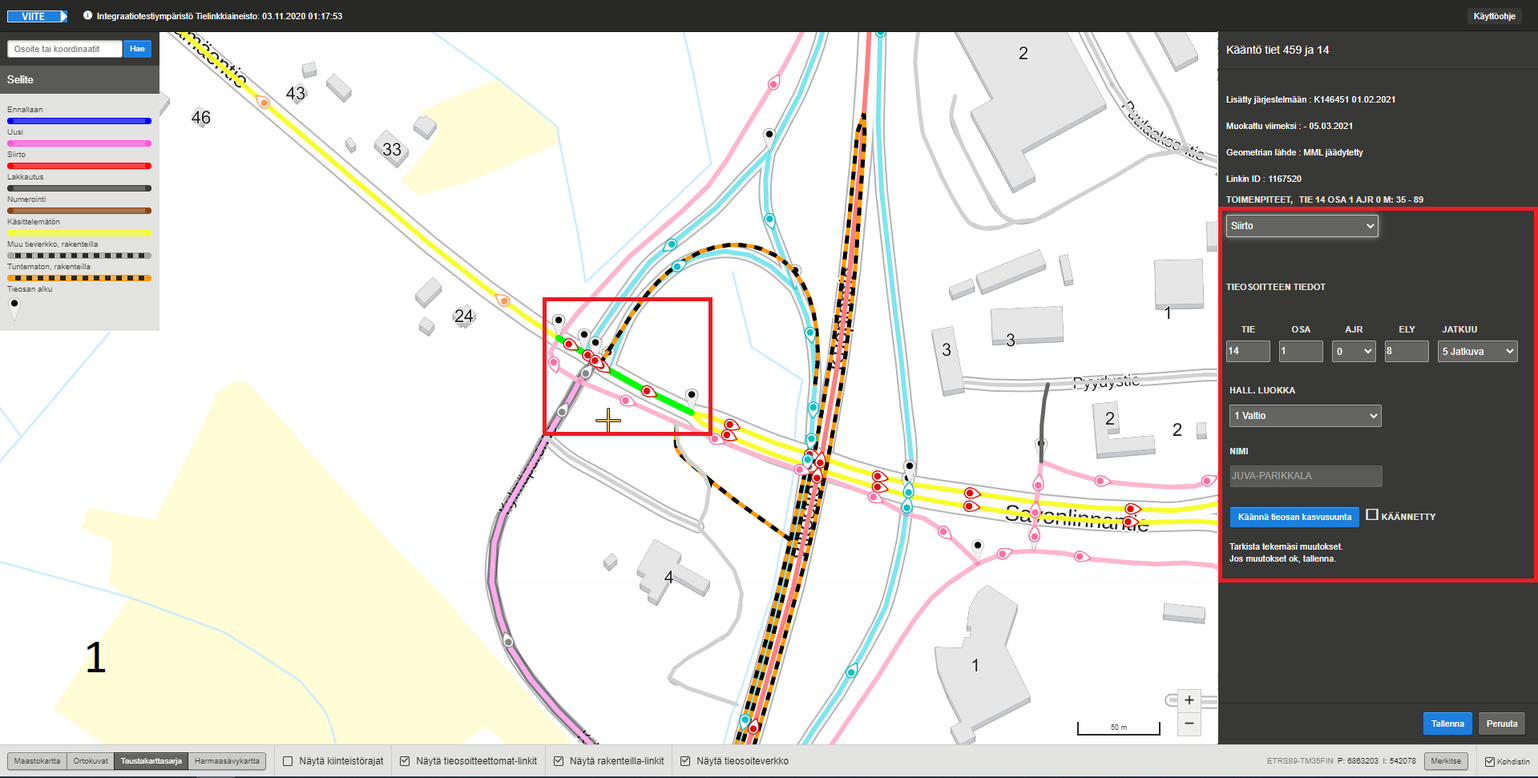
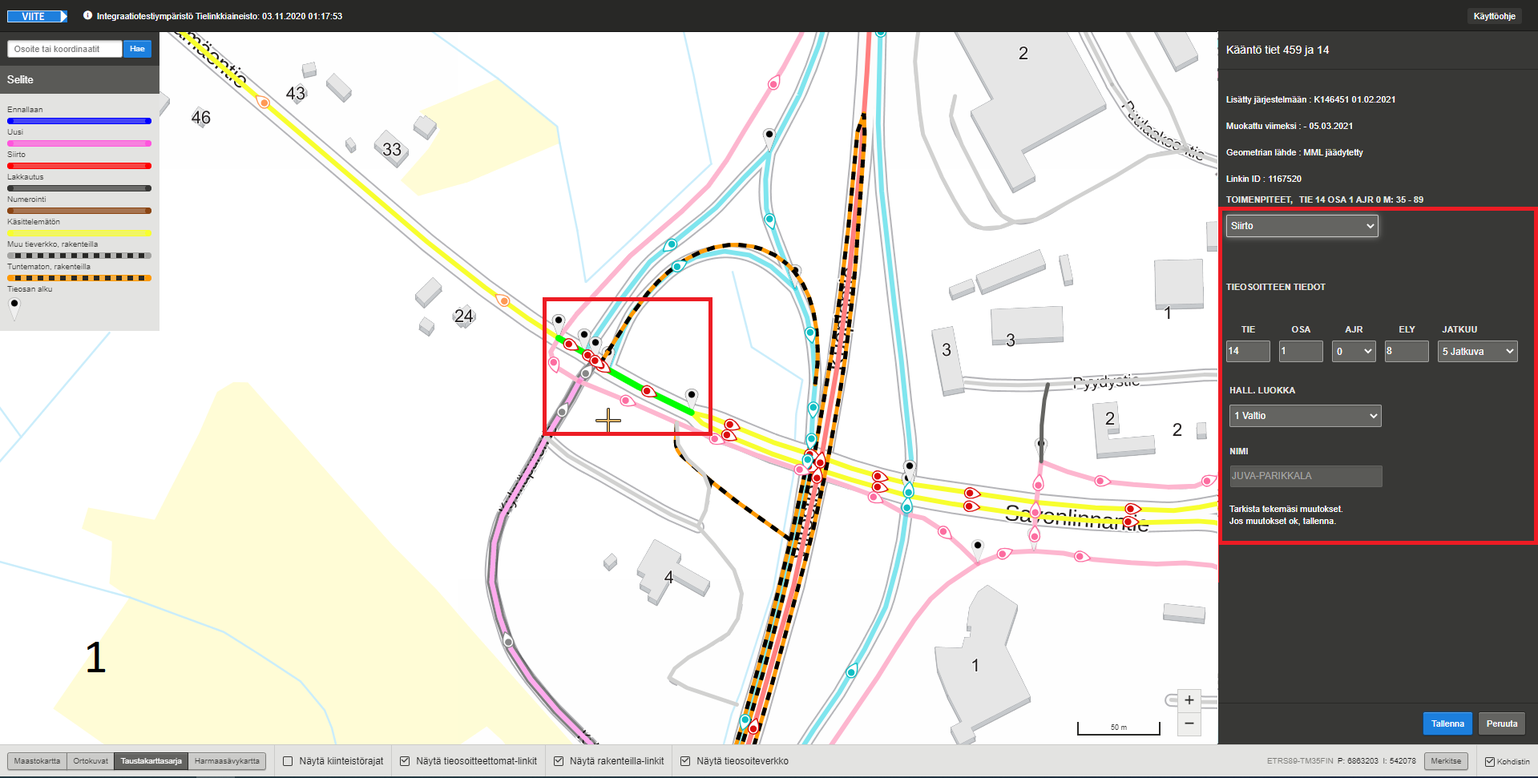
User manual update, chapter 7

Changed region(s): [[0.7994, 0.6488, 1.0, 0.7724]]

diff --git a/viite-UI/manual/index.md b/viite-UI/manual/index.md
@@ -386,65 +386,71 @@ Projektitilan selite kuvaa linkkiverkkoon tehdyt toimenpiteet, kun taas katselut
 
 7.1 Toimenpiteiden kuvaukset
 --------------------------
-#### Yleistä toimenpiteistä
-Uusi-toimenpidettä lukuunottamatta kaikkia muita toimenpiteitä varten käsiteltävä tieosa tai käsiteltävät tieosat täytyy ensin varata tieosoiteprojektiin (Ks. 6.1, kohta _Tieosien varaaminen projektiin_).
+### Yleistä toimenpiteiden tekoprosessista
+#### Toimenpiteiden tekemisen esiehdot
+Uusi-toimenpidettä lukuunottamatta käsiteltävä tieosa tai käsiteltävät tieosat täytyy ensin varata tieosoiteprojektiin (Ks. 6.1, kohta _Tieosien varaaminen projektiin_).
 Kaikki toimenpiteet tehdään toimenpidenäkymässä, jonne päästään _Jatka toimenpiteisiin_ -painikkeesta projektin luonti- tai muokkausnäkymästä käsin.   
 Muut toimenpiteet kuin Uusi: Projektiin varatut mutta vielä käsittelemättömät tieosat näkyvät kartalla keltaisina aihioina. Valitse kartalta aihio tai aihiot, joille haluat tehdä toimenpiteen.   
 Uusi-toimenpide: valitse kartalta tieosoitteistamaton tai rakenteilla oleva tieosuus, jonka haluat osoitteistaa.   
-Valittuina tielinkit muuttuvat vihreiksi. Shift+kaksoisklikkaus-painalluksella voi lisätä yksittäisiä linkkejä valintaan tai poistaa yksittäisiä linkkejä valinnasta.   
+Valittuina tielinkit muuttuvat vihreiksi. Shift+klikkauksella voi lisätä yksittäisiä linkkejä valintaan Ctrl+klikkauksella lisätä tai poistaa yksittäisiä linkkejä valinnasta.   
 Oikeaan reunaan, toimenpidelomakkeelle, tulevat tiedot valituista linkeistä, sekä pudotusvalikko, josta kulloinkin tehtävissä olevat toimenpiteet voi valita.
+
+#### Toimenpiteiden teon jälkeen
+Varsinaisen toimenpiteen teon jälkeen osoitteiston m-arvot, sekä uusi- ja kääntötoimenpiteiden tapauksessa myöskään tielinkkien suunnat, eivät ole vielä välttämättä laskettu oikein.
+Kaikkien projektin toimenpiteiden teon jälkeen täytyy projektin muokkaaman tieosoiteverkon tiedot laskea _Päivitä etäisyyslukemat_-nappia klikkaamalla. 
+Tällöin Viite laskee linkeille suunnat, ja päivittää etäisyyslukemat vastaamaan uutta tilannetta toimenpiteiden jälkeen. 
+Etäisyyslukemien laskenta voi tässä yhteydessä löytää toimenpiteistä korjattavaa, jolloin käyttäjälle näytetään lista validointivirheistä, eikä projektin teossa pääse eteenpäin, ennen kuin toimenpiteet on korjattu virheettömiksi.
+Kun etäisyyslukemien päivityksen yhteydessä ei havaita enää enempää ongelmia, käyttäjä päästetään tarkastelemaan projektin yhteenvetotaulukoa (ks. luku 7.3), ja sen jälkeen hyväksymään projektin toimenpiteitä tieosoiteverkolle (luku 7.4).
 
 7.1.1 Lakkautus
 --------------------------
 
 Lakkautus-toimenpiteellä lopetetaan tielinkkien tieosoitteistuksen voimassaolo.   
-(Yleiset ohjeet; kuinka saada toimenpidevalikko näkyviin: ks. edeltä luku 7.1.) Toimenpidelomakkeen pudotusvalikosta valitaan Lakkautus. Tämän jälkeen muutos tallennetaan projektiin. 
-Lakkautetut linkit näkyvät tämän jälkeen kartalla mustina.
+
+Toimenpidelomakkeen pudotusvalikosta valitaan Lakkautus (1). Tämän jälkeen muutos tallennetaan projektiin (_Tallenna-_). Lakkautetut linkit näkyvät tämän jälkeen kartalla mustina (2).
 Mikäli on lakkautettu vain osa tieosan linkeistä, tulee tieosan muut kuin lakkautetut linkit käsitellä joko Ennallaan- tai Siirto-toimenpiteillä tilanteesta riippuen. 
 
-ja niiden tiedot päivittyvät yhteenvetotaulukkoon, jonka voi avata sinisestä _Avaa projektin yhteenvetotaulukko_ -painikkeesta. 
-Yhteenvetotaulukon toiminta on kuvattu luvussa 7.2. 
-Kun tarvittavat muutokset projektissa on tehty, muutostiedot voi hyväksyä tieverkolle painamalla _Hyväksy tieosoitemuutokset_ -painiketta. (Yhteenvetotaulukon tulee olla tällöin avattuna.)
+![Tieosoitteen lakkautus](k_toimenpide_lakkautus.jpg)
+
 
 7.1.2 Uusi
 --------------------------
-Uusi-toimenpiteellä määritetään uusi tieosoitteisto tieosoitteettomille tielinkeille.   
-Tieosoitteettomia muun tieverkon linkkejä (piirtyvät kartalle harmaina) tai rakenteilla olevia linkkejä (näkyvät katkoviivoina) voi toimenpidenäkymässä valita kerta- kaksois- tai ctrl+klik-klikkauksilla, kuten muitakin tielinkkejä. Kaksoisklikkaus valitsee yhden tielinkin ja Ctrl+klikkauksella voi lisätä tai poistaa valintaan linkkejä yksi kerrallaan. Kertaklikkaus valitsee homogeenisen jakson, jossa käytetään VVH:n tielinkin tienumeroa ja tieosanumeroa. Tienumeron tai tieosanumeron puuttuessa valinnassa käytetään tienimeä.
+Uusi-toimenpiteellä määritetään tieosoitteisto tieosoitteettomille tielinkeille.   
 
-(Yleiset ohjeet; kuinka saada toimenpidevalikko näkyviin: ks. edeltä luku 7.1.) Kun valitaan Toimenpiteet-pudotusvalikosta Uusi (1), lomakkeelle avautuvat kentät uuden tieosoitteen tiedoille (2). Jos valitulla tieosuudella on jo olemassa VVH:ssa tienumero ja tieosanumero, ne esitäyttyvät kenttiin automaattisesti.
-Linkkien Hallinnollista luokkaa voi muokata pudotusvalikosta (3). Tien nimi (4) on pakollinen tieto, kun tien numero on pienempi kuin 70000. Muutokset tallennetaan _Tallenna_-painikkeella (5). Ennen tallennusta muutokset voi perua _Peruuta_-painikkeesta. 
+Tieosoitteettomia linkkejä (piirtyvät kartalle harmaina) tai rakenteilla olevia linkkejä (piirtyvät kartalle katkoviivoina) voi toimenpidenäkymässä valita kerta- kaksois- tai Ctrl+klik-klikkauksilla kuten tieosoitteellisiakin tielinkkejä. 
+Kaksoisklikkaus valitsee yhden tielinkin. Ctrl+klikkauksella voi lisätä tai poistaa valintaan linkkejä yksi kerrallaan. 
+Kertaklikkaus valitsee ns. homogeenisen jakson, jonka määrittämiseen käytetään VVH:n tielinkin tienumeroa ja tieosanumeroa. Tienumeron tai tieosanumeron puuttuessa valinnassa käytetään tienimeä.
 
-![Uusi tieosoite](k43.jpg)
+Toimenpidelomakkeen pudotusvalikosta valitaan Uusi (1). Lomakkeelle avautuvat kentät uuden tieosoitteen tietoja varten (2). 
+Jos valitulla tieosuudella on jo olemassa VVH:ssa tienumero ja tieosanumero, ne esitäyttyvät kenttiin automaattisesti.
+Linkkien Hallinnollista luokkaa voi muokata pudotusvalikosta (3). Tien nimi (4) on pakollinen tieto, kun tien numero on pienempi kuin 70000. 
+Uudelle tieosoitukselle voi antaa mitatut alku- ja loppuetäisyydet _Alussa_- ja _Lopussa_ -kenttiin (5).
+Tien kasvusuunnan voi kääntää _Käännä tieosan kasvusuunta_-napista (6), mutta tästä toiminnosta on enemmän hyötyä sen jälkeen, kun etäisyyslukemien laskemisen jälkeen tien alkuperäinen satunnainen kasvusuunta tulee näkyviin.
+Uuden tieosoitteistuksen tiedot tallennetaan _Tallenna_-painikkeesta (7). Ennen tallennusta muutokset voi perua _Peruuta_-painikkeesta. 
+Tallennuksen jälkeen uuden tieosoitteen linkit piirtyvät kartalle pinkillä (8). 
 
-_Kuva 7.3: Kun valitaan toimenpide Uusi, oikeaan laitaan tulee näkyviin kentät uuden tieosoitteen syöttämistä varten._ 
+![Uusi tieosoite](k_toimenpide_uusi.jpg)
 
-Jos uusi tieosoite on jo olemassa projektin alkupäivänä tai se on varattuna toisessa tieosoiteprojektissa, käyttäjä saa tästä ilmoituksen.
+_Kuva 7.3: Kun valitaan toimenpide Uusi, oikeaan laitaan tulee näkyviin kentät uuden tieosoitteen syöttämistä varten._ Uuden tieosoitteen linkit piirtyvät kartalle pinkillä. 
+
+Jos syötetty uusi tieosoite on jo olemassa tieosoiteverkolla projektin alkupäivänä tai se on varattuna toisessa tieosoiteprojektissa, tieosoitetta ei voi tallentaa, vaan käyttäjä saa tästä ilmoituksen.
 
 ![Tieosoite on jo olemassa](k44.JPG)
 
 _Kuva 7.4: Tieosoite on jo olemassa projektin alkupäivänä._
 
-Uudelle tieosoitteelle määrittyy aluksi satunnainen kasvusuunta, joka näytetään kartalla pinkeillä nuolilla (2). Kasvusuunnan voi vaihtaa "Käännä tieosan kasvusuunta" -painikkeella (1).
-
-![Kasvusuunnan vaihto](k47.jpg)
-
-_Kuva 7.5: Valittuna olevan uuden tieosoitteen kasvusuunta vaihtuu lomakkeen Käännä tieosan kasvusuunta -painikkeesta._
-
-Uuden tieosoitteen linkit piirtyvät kartalle pinkillä (1). Tieosan alku- ja loppupisteisiin (2) sijoitetaan automaattisesti etäisyyslukema-symbolit. Viite laskee uudelle tieosuudelle automaattisesti myös linkkien m-arvot käyttäen VVH:n tietoja. 
-
-![Uusi tieosoite pinkilla](k46.jpg)
-
-_Kuva 7.6: Uuden tieosoitteen linkit piirtyvät kartalle pinkillä. Tieosan voi valita klikkaamalla, jolloin se korostuu vihreällä._
-
 Tallennettuun tieosoitteeseen voi jatkaa uusien linkkien lisäämistä vaiheittain. Ensin valitaan tallennetun tieosan jatkeeksi seuraava linkki. Sitten valitaan lomakkeelta toimenpide Uusi, annetaan linkille sama tieosoite (TIE= tienumero, OSA=tieosanumero, AJR=ajoratakoodi) ja tallennetaan. Viite täyttää automaattisesti ELY-koodin, joka määräytyy tielinkin kuntakoodin perustella VVH:sta. 
 
-Projektin voi myös tallentaa ja sulkea ja jatkaa lisäystä samaan tieosoitteeseen myöhemmin. Kasvusuunta lisätylle osuudelle määräytyy aiemmin osoitteistettujen linkkien mukaan ja sitä voi edelleen muuttaa "Käännä kasvusuunta" -painikkeella. M-arvot päivittyvät koko tieosalle, jolle on annettu sama tieosoite.
+Projektin voi myös tallentaa ja sulkea ja jatkaa lisäystä samaan tieosoitteeseen myöhemmin. Kasvusuunta lisätylle osuudelle määräytyy aiemmin osoitteistettujen linkkien mukaan ja sitä voi edelleen muuttaa "Käännä kasvusuunta" -painikkeella. Etäisyysarvot (M-arvot) päivittyvät koko tieosalle, jolle on annettu sama tieosoite.
 
+<!-- POIS?POIS?POIS?
 Tieosoitteen voi antaa Viitteessä myös ns. Suravage-linkeille (SuRavaGe = Suunniteltu rakentamisvaiheen geometria). Suravage-tiet näkyvät Viitteessä vaaleanpunaisella värillä ja niissä näkyy myös tieosoitteen kasvusuuntanuolet. 
+POIS?POIS?POIS? -->
 
 __Uuden kiertoliittymän alkupaikan muuttaminen__
 
-Jos Uusi-toimenpiteellä tieosoitteistetulla kiertoliittymän linkeillä on VVH:ssa (esim. Suravage-linkit) tienumero, kiertoliittymän voi ns. "pikaosoitteistaa". Pikaosoitteistaminen tapahtuu kertaamalla kiertoliittymän alkukohdaksi haluttua linkkiä. Tällöin koko kiertoliittymän linkit tulevat valituiksi. Uusi toimenpide asettaa alkukohdaksi klikatun linkin.
+Jos Uusi-toimenpiteellä tieosoitteistetuilla kiertoliittymän linkeillä on VVH:ssa (esim. Suravage-linkit) tienumero, kiertoliittymän voi ns. "pikaosoitteistaa". 
+Pikaosoitteistaminen tapahtuu klikkaamalla kiertoliittymän alkukohdaksi haluttua linkkiä. Tällöin koko kiertoliittymän linkit tulevat valituiksi. Uusi toimenpide asettaa alkukohdaksi klikatun linkin.
 
 Muussa tapauksessa kiertoliittymän alkukohta asetetaan manuaalisesti kahdessa vaiheessa:
 1. Valitaan alkupaikka kaksoisklikkaamalla kiertoliittymän linkkiä tieosoitteen haluttuun alkupaikkaan. Valitulle linkille annetaan Uusi-toimenpiteellä tieosoite. 
@@ -454,30 +460,54 @@ Tieosoiteprojektissa Uusi-toimenpiteellä jo tieosoitteistetun kiertoliittymän 
 
 7.1.3 Ennallaan
 --------------------------
-Tieosan linkkien tieosoitteen voi säilyttää ennallaan esimerkiksi silloin, kun osalle tieosaa halutaan tehdä tieosoitemuutoksia ja osan säilyvän ennallaan. Tällöin tieosa käsitellään toimenpiteellä Ennallaan. Toimenpide tehdään varaamalla ensin projektitietojen formilla projektiin muokattava tieosa tai -osat. Seuraavaksi siirrytään toimenpidenäytölle "Jatka toimenpiteisiin" -painikkeella. Valittu tieosa tai sen tietyt linkit valitaan kartalta, jolloin ne muuttuvat vihreiksi, ja lomakkeelle ilmestyy pudotusvalikko. Valikosta valitaan toimenpide Ennallaan ja tallennetaan muutokset.   
+Ennallaan-toimenpiteellä ilmoitetaan sellaiset muutokset, jotka eivät vaikuta valittujen tielinkkien tieosoitteeseen.
+
+Tieosan linkkien tieosoitteen voi säilyttää ennallaan esimerkiksi silloin, kun osalle tieosaa halutaan tehdä tieosoitemuutoksia ja osan halutaan säilyvän ennallaan. 
+Tieosoite pysyy muuttumattomana myös silloin, jos vain hallinnollistyyppisiä tietoja (ELY, Hallinnollinen luokka, tien jatkuvuus, tien nimi) muutetaan.
+
+Toimenpidelomakkeen pudotusvalikosta valitaan Ennallaan, tehdään tarvittaessa halutut hallinnollisten tietojen muutokset, ja lopuksi tallennetaan _Tallenna_-painikkeesta.
+Ennallaan-toimenpiteellä käsitelty linkki näkyy toimenpidenäkymässä sinisenä.
 
 7.1.4 Siirto
 --------------------------
-Siirto-toimenpide tehdään tieosalle uusien m-arvojen laskemiseksi. Siirtoa käytetään, kun osa tieosan linkeistä käsitellään jollain muulla toimenpiteellä ja loppujen linkkien m-arvot täytyy laskea uudelleen. Esimerkkinä osalle tieosan linkeistä voidaan tehdä lakkautus, lisätä uusia linkkejä ja pitää osa linkeistä ennallaan. Siirto tehdään tieosoiteprojektiin varatulle tieosalle siten, että tieosalle on ensin tehty muita toimenpiteitä, kuten lakkautus, uusi tai numerointi. Linkit, joille siirto tehdään, valitaan kaksoisklikkaamalla ensimmäinen haluttu linkki ja lisäämällä valintaan Ctrl+klikkaamalla linkkejä. Sitten valitaan toimenpidevalikosta siirto ja tallennetaan. Siirretyt linkit muuttuvat toimenpiteen tallennuksen jälkeen punaiseksi. Muutokset näkyvät projektin yhteenvetotaulukossa.   
+Siirto-toimenpide tehdään tielinkeille uusien etäisyysarvojen (m-arvojen) laskemiseksi, tai tieosoitenumeroinnin (tienumero, tieosanumero, ajoratakoodi) muuttumisen vuoksi.   
+
+Siirtoa käytetään, kun osa tieosan linkeistä käsitellään jollain muulla toimenpiteellä (lakkautus, uusi, numerointi), ja loppujen linkkien m-arvot täytyy laskea uudelleen. 
+Osalle tieosan linkeistä voidaan tehdä lakkautus, lisätä tielle uusia linkkejä ja pitää osa linkeistä ennallaan.
+
+Toimenpidelomakkeen pudotusvalikosta valitaan Siirto, tarvittaessa muutetaan tieosoittuksen tiedot, ja lopuksi siirtotoimenpide tallennetaan _Tallenna_-painikkeesta.
+Siirretyt linkit muuttuvat toimenpidenäkymässä punaisiksi. 
 
 7.1.5 Numerointi
 --------------------------
-Tieosoitteen numeroinnin muutoksella tarkoitetaan Viitteessä tienumeron ja/tai tieosanumeron muuttamista. 
-Projektiin varataan tarvittava(t) tieosa(t). Varaamisen jälkeen siirrytään toimenpidelomakkeelle "Jatka toimenpiteisiin" -painikkeella. Valitaan muokattava, keltaisella näkyvä varattu tieosa klikkaamalla kartalta. Tieosa muuttuu vihreäksi. Viite poimii tällöin koko tieosan mukaan valintaan, vaikkei se näkyisi kokonaisuudessaan karttanäkymässä, ja käyttäjälle tulee tästä ilmoitus. Mikäli on tarpeen muuttaa vain tietyn linkin numerointia tieosalla, tehdään valinta kaksoisklikkauksella halutun linkin päältä. Jos valitaan lisää yksittäisiä linkkejä, tehdään se Ctrl+klikkaamalla. Toimenpide-lomakkeelle syötetään uusi numerointi (tienumero ja/tai tieosanumero) ja tallennetaan muutokset. Numeroitu osuus muuttuu tallennettaessa ruskeaksi.
+Tieosoitteen numeroinnin muutoksella tarkoitetaan Viitteessä kokonaisen tieosan tieosoitteistuksen (tienumero, tieosanumero) muuttamista yhdellä kertaa. 
 
-Koska numeroinnin muutos kohdistuu koko tieosaan, muita toimenpiteitä ei tallennuksen jälkeen tarvitse tehdä. 
+Toimenpidenäytöltä riittää valita mikä tahansa osuus uudelleen numeroitavalta tieosalta. Yksikin linkki riittää. Valittu linkki/linkit muuttuu vihreäksi. 
+Toimenpidelomakkeen pudotusvalikosta valitaan Numerointi. Viite poimii koko tieosan mukaan valintaan, ja käyttäjälle tulee tästä ilmoitus. 
+Vaihdetaan tieosoitteen tietoihin uusi tieosanumerointi ja tarvittaessa muut tiedot, ja lopuksi numerointitoimenpide tallennetaan _Tallenna_-painikkeesta.
+Koko tieosan linkit muuttuvat toimenpidenäkymässä ruskeiksi. 
+Koska numeroinnin muutos kohdistuu koko tieosaan, muita toimenpiteitä ei tallennuksen jälkeen kyseiselle tieosalle tarvitse tehdä. 
+
+Mikäli on tarpeen muuttaa vain tietyn linkin numerointia tieosalla, tehdään tämä operaatio Siirto-toimenpiteenä. 
 
 7.1.6 Kääntö
 --------------------------
-Tieosoitteen kasvusuunnan voi kääntää Viitteessä joko esimerkiksi siirron tai numeroinnin yhteydessä. Kääntö tapahtuu joko automaattisesti, tai tietyissä tilanteissa käyttäjä tekee sen manuaalisesti.  
+Tieosoitteen kasvusuunnan voi kääntää Viitteessä joko esimerkiksi siirron tai numeroinnin yhteydessä. 
+Kääntö tapahtuu joko automaattisesti, tai tietyissä tilanteissa käyttäjä tekee käännön manuaalisesti.  
 
 #### Automaattinen kääntö siirron yhteydessä
 
-Kun siirretään tieosa (osittain tai kokonaan) toiselle tieosalle, jolla on eri tieosoitteen kasvusuunta, Viite päättelee siirron yhteydessä kasvusuunnan siirrettäville linkeille. 
+Kun siirretään tieosa (osittain tai kokonaan) toiselle tieosalle, jolla on eri tieosoitteen kasvusuunta, Viite päättelee siirron yhteydessä kasvusuunnan siirrettäville linkeille automaattisesti, ja siis kääntää siirrettävät linkit automaattisesti. 
 
-Alla olevassa kuvasarjassa on tehty siirto ja kääntö osalle tieosaa. Projektiin on varattu tie 459, osa 1 ja tie 14, osa 1 (näkyvät kartalla keltaisella). Osa tien 14 linkeistä halutaan siirtää tielle 459 osalle 1 (lännen suuntaan), jolloin siirrettävät linkit valitaan kartalta. Lomakkeelta valitaan muutosilmoitus Siirto (1). Annetaan kohtaan TIE arvoksi kohdetien numero 459. Muut tiedot säilyvät tässä tapauksessa samana, mutta myös tieosaa, hallinnollista luokkaa ja jatkuvuuskoodia tulee tarvittaessa muuttaa. Tallennetaan muutokset (2). Kohde muuttuu siirretyksi ja tieosoitteen kasvusuunta päivittyy vastaamaan tien 459 kasvusuuntaa (3). 
+Alla olevassa kuvasarjassa on tehty esimerkinomaisesti siirto ja kääntö osalle tieosaa siten, että tieosan alku siirtyy toisen tieosan alkuosaksi. Projektiin on varattu tie 459, osa 1 ja tie 14, osa 1 (näkyvät kartalla keltaisella). 
+Osa tien 14 linkeistä halutaan siirtää tielle 459 osalle 1 (lännen suuntaan), jolloin siirrettävät linkit valitaan kartalta. 
+Lomakkeelta valitaan muutosilmoitus Siirto (1). Annetaan kohtaan TIE arvoksi kohdetien numero 459. 
+Muut tiedot säilyvät tässä esimerkissä ennallaan, mutta myös tieosaa, hallinnollista luokkaa ja jatkuvuuskoodia tulee tarvittaessa muuttaa. 
+Tallennetaan muutokset (2).   
+Tämän jälkeen siirtoon ja kääntöön voi valita lisää linkkejä tieltä 14 tai jättää loput vanhoille tieosilleen. 
+Mikäli muuta ei tehdä, tulee sekä tieosan 459/1 että tieosan 14/1 loput linkit käsitellä Siirto-toimenpiteellä.
 
-Tämän jälkeen siirtoon ja kääntöön voi valita lisää linkkejä tieltä 14 tai jättää loput ennalleen. Jälkimmäisessä tilanteessa loput projektiin valitut keltaiset aihiot tulee aina käsitellä, jotta muutosilmoitukset voi lähettää tierekisteriin. Mikäli muuta ei tehdä, tulee tie 459, osa 1 valita kartalta ja tehdä sille muutosilmoitus Siirto ja painaa Tallenna. Samoin tehdään tielle 14 osalle 1. Ilmoitusten yhteenvetotaulukko avataan, ja mikäli tiedot ovat valmiit, voi ne lähettää tierekisteriin vihreästä "Lähetä muutosilmoitus Tierekisteriin" -painikkeesta.  
+Etäisyyslukemien laskennan (_Päivitä etäisyyslukemat_ -nappi) jälkeen kohde muuttuu siirretyksi ja tieosoitteen kasvusuunta päivittyy vastaamaan tien 459 kasvusuuntaa (3). 
 
 ![Siirto ja kääntö](k48.jpg)
 
@@ -485,11 +515,11 @@ Tämän jälkeen siirtoon ja kääntöön voi valita lisää linkkejä tieltä 1
 
 ![Siirto ja kääntö](k52.jpg)
 
-_Kuva 7.7: Kuvasarjassa siirretään osa tiestä 14 tielle 459. Tieosoitteiden kasvusuunnat teillä ovat vastakkaiset, jolloin siirrossa tien 14 kasvusuunta kääntyy._
+_Kuva 7.7: Kuvasarjassa siirretään osa tiestä 14 tielle 459. Tieosoitteiden kasvusuunnat teillä ovat vastakkaiset, jolloin siirrossa tieltä 14 siirrettyjen linkkien kasvusuunta kääntyy._
 
 #### Tieosan manuaalinen kääntö
 
-Manuaalista kääntöä varten Viitteessä on "Käännä kasvusuunta" -painike. Painike aktivoituu lomakkeelle, kun käyttäjä on tehnyt varaamalleen aihiolle toimenpiteen ja tallentanut sen. Kun käsiteltyä aihiota (on tehty muutosilmoitus siirto tai numerointi) klikataan kartalla, lomakkeella näkyvät tehty ilmoitus ja sen tiedot sekä "Käännä kasvusuunta" -painike. Kun sitä klikataan ja sen jälkeen tallennetaan, tieosan kasvusuunta kääntyy, ja projektin yhteenvetotauluun tulee tieto käännöstä sarakkeeseen Kääntö (rasti ruudussa).
+Manuaalista kääntöä varten Viitteessä on _Käännä kasvusuunta_ -painike. Painike aktivoituu lomakkeelle, kun käyttäjä on tehnyt varaamalleen aihiolle siirto- tai numerointi-toimenpiteen ja tallentanut sen. Kun näin käsiteltyä aihiota klikataan kartalla, lomakkeella näkyvät tehty ilmoitus ja sen tiedot sekä _Käännä kasvusuunta_ -painike. Kun sitä klikataan ja sen jälkeen tallennetaan, tieosan kasvusuunta kääntyy.
 
 Manuaalinen kääntö koskee aina koko tieosaa. Sen vuoksi manuaalista kääntöä ei voi suorittaa, jos joku tieosan linkeistä on käsitelty toimenpiteellä Ennallaan.
 
@@ -499,99 +529,121 @@ _Kuva 7.8: Manuaalinen kääntö siirron tai numeroinnin yhteydessä_
 
 #### Kaksiajorataisen osuuden kääntö
 
-Kun käännetään tieosan kaksiajoratainen osuus, se tehdään edellä kuvatulla tavalla siirron tai numeroinnin yhteydessä yksi ajorata kerrallaan. Kartalta valitaan haluttu ajorata ja lomakkeelta joko siirto tai numerointi. Määritetään uusi ajoratakoodi sekä muut tarvittavat tieosoitemuutostiedot lomakkeelle ja tallennetaan. Mikäli tieosoitteen kasvusuunta ei automaattisesti käänny (esim. kun käsitellään yhtä tieosaa), tehdään kääntö manuaalisesti "Käännä kasvusuunta" -painikkeella. Yhteenvetotaulussa Kääntö-sarake sekä muutosilmoituksen rivit päivittyvät.
+_!Tämä ohjeen osio saattaa olla vanhentunut!_   
+Kun käännetään tieosan kaksiajoratainen osuus, se tehdään edellä kuvatulla tavalla siirron tai numeroinnin yhteydessä yksi ajorata kerrallaan. Kartalta valitaan haluttu ajorata ja lomakkeelta joko siirto tai numerointi. Määritetään uusi ajoratakoodi sekä muut tarvittavat tieosoitemuutostiedot lomakkeelle ja tallennetaan. Mikäli tieosoitteen kasvusuunta ei automaattisesti käänny (esim. kun käsitellään yhtä tieosaa), tehdään kääntö manuaalisesti _Käännä kasvusuunta_ -painikkeella.   
+_!Tämä ohjeen osio saattaa olla vanhentunut!_
 
+<!-- Kenttien olemassaolo mainittu Uusi-toimenpiteen yhteydessä. Käytön detaljit vaativat selvennystä.
 7.1.7 Etäisyyslukeman muutos
 --------------------------
-Tieosoiteprojektissa uudelle tieosoitteistettavalle tieosalle on mahdollista asettaa käyttäjän antama tieosan loppuetäisyyslukema. Ensin valitaan haluttu tieosa kartalta, jonka jälkeen lomakkeelle ilmestyy kenttä, johon loppuetäisyyden voi muuttaa. Muutettu arvo huomioidaan lomakkeella punaisella huutomerkillä. 
+Tieosoiteprojektissa uudelle tieosoitteistettavalle tieosalle on mahdollista asettaa käyttäjän antama tieosan loppuetäisyyslukema. Ensin valitaan haluttu tieosa kartalta, jonka jälkeen lomakkeelle ilmestyy kenttä, johon loppuetäisyyden voi muuttaa. Muutettu arvo huomioidaan lomakkeella punaisella huutomerkillä.
+-->
 
-7.1.8 ELY-koodin, jatkuvuuden ja hallinnollisen luokan muutos
+7.1.7 ELY-koodin, jatkuvuuden ja hallinnollisen luokan muutos
 --------------------------
-Viitteessä voi muokata ELY-koodia, jatkuvuutta ja hallinnollista luokkaa. Näitä muutoksia voi tehdä esimerkiksi Ennallaan-toimenpiteellä, jolloin lomakkeelle tulee pudotusvalikot ELYlle, jatkuvuudelle ja hallinnolliselle luokalle. Uudet arvot annetaan valitulle aihiolle ja tallennetaan. Jatkuvuus-koodi näytetään valinnan viimeiseltä linkiltä ja muutokset kohdistuvat myös viimeiseen linkkiin. Hallinnollisen luokan ja ELY-koodin muutos kohdistuu kaikkiin valittuihin linkkeihin. Ennallaan-toimenpiteen lisäksi näitä arvoja voi muokata aina, kun ne ovat muutosilmoituksen yhteydessä lomakkeella muokattavissa. 
+Viitteessä voi muokata ELY-koodia, jatkuvuutta ja hallinnollista luokkaa. Näitä muutoksia voi tehdä esimerkiksi Ennallaan-toimenpiteellä, jolloin lomakkeelle tulee pudotusvalikot ELYlle, jatkuvuudelle ja hallinnolliselle luokalle. Uudet arvot annetaan valitulle aihiolle ja tallennetaan. Jatkuvuus-koodi näytetään valinnan viimeiseltä linkiltä ja myös muutokset kohdistuvat viimeiseen linkkiin. Hallinnollisen luokan ja ELY-koodin muutos kohdistuu kaikkiin valittuihin linkkeihin. Ennallaan-toimenpiteen lisäksi näitä arvoja voi muokata aina, kun ne ovat muutosilmoituksen yhteydessä lomakkeella muokattavissa. 
 
+<!-- "5 Jatkuva (Rinnakkainen linkki)"-valinta ei ole enää käytössä AWS-versioon siirryttäessä.
 Huom! Jatkuvuuskoodia 5 on valittavissa kaksi eri vaihtoehtoa. Koodia _5 Jatkuva (Rinnakkainen linkki)_ käytetään kaksiajorataisella tiellä osoittamaan rinnakkainen linkki silloin, kun toisella ajoradalla on lievä epäjatkuvuus, eikä automaatio ole löytänyt oikeaa linkkiparia. Jatkuvuuskoodi _4 Lievä epäjatkuvuus_ annetaan normaalisti toisen ajoradan epäjatkuvuuskohtaan. Viite antaa automaattisesti kalibrointipisteet molemmille ajoradoille. Jos rinnakkaisen ajoradan kalibrointipiste ei ole halutussa kohdassa, valitaan haluttu rinnakkainen linkki ja annetaan sille koodiksi _5 Jatkuva (Rinnakkainen linkki)_. Tällöin kalibrointipiste tulee kyseisen linkin loppuun, ja ajoratojen AET- ja LET-arvot saadaan täsmättyä lievään epäjatkuvuuskohtaan.
+-->
 
-7.2 Muutosilmoitusten tarkastelu taulukkonäkymässä
+7.2 Tarkastukset
 --------------------------
 
-Projektin muutosilmoitusnäkymässä on mahdollista tarkastella ilmoitusten yhteenvetotaulukkoa. "Avaa projektin yhteenvetotaulukko" -painikkeella (1) avautuu taulukkonäkymä, joka kertoo projektissa olevien tieosoitteiden vanhan ja uuden tilanteen Viitteessä. Nämä vastaavat Tierekisteriin vietäviä muutosilmoituksia. Taulukossa rivit on järjestetty suurimmasta pienimpään tieosoitteen mukaan (tie, tieosa). Rivien järjestystä voi muokata nuolipainikkeilla (2). Yhteenvetotaulukon AET- ja LET-arvot päivittyvät oikein vasta kun kaikki tieosan aihiot on käsitelty.
+Viite-sovellus tekee tieosoiteprojektissa automaattisia tarkastuksia, jotka auttavat käyttäjää valmistelemaan tieosoiteverkon muutokset hyväksyttävään muotoon. Tarkastukset ovat projektissa jatkuvasti päällä ja reagoivat projektin tilan muutoksiin. 
+Avatun projektin tarkastusilmoitukset tulevat esiin "Jatka toimenpiteisiin" -painikkeen klikkauksen jälkeen, kun Viite on saanut käytyä läpi projektin senhetkisen tilan. 
 
-Taulukon rivien tietoja voi kopioida maalaamalla halutut tiedot hiirellä ja kopioimalla ne (esim. hiiren oikean napin takaa valikosta, tai ctrl+c). 
-
-Taulukon kokoa saa muutettua taulukon yläkulmassa olevasta painikkeesta (3). Taulukon voi pitää auki projektin muokkauksen aikana, ja muutokset päivittyvät taulukkoon tallennettaessa. Viite-sovelluksen voi venyttää kahdelle näytölle, joista toisella voi tarkastella muutostaulukkoa ja toisella käyttää karttanäkymää. Taulukkoa voi liikuttaa tarraamalla osoittimella yläpalkista. Yhteenvetotaulukko ei välttämättä näy oikeanlaisena, jos selaimen zoom-taso on liian suuri. Ongelma korjaantuu palauttamalla selaimen zoom-taso normaaliksi (Firefox/Chrome Ctrl+0). 
-
-Taulukon saa pois näkyvistä Sulje-painikkeesta (4).
-
-![Muutosilmoitustaulukko](k41.png)
-
-_Kuva 7.10: Muutosilmoitustaulukko toimintoineen._
-
-7.3 Tarkastukset
---------------------------
-
-Viite-sovellus tekee tieosoiteprojektissa automaattisia tarkastuksia, jotka auttavat käyttäjää valmistelemaan muutosilmoituksen Tierekisterin vaatimaan muotoon. Tarkastukset ovat projektissa jatkuvasti päällä ja reagoivat projektin tilan muutoksiin. Avatun projektin tarkastusilmoitukset tulevat esiin "Jatka toimenpiteisiin" -painikkeen klikkauksen jälkeen, kun Viite on saanut käytyä läpi projektin senhetkisen tilan. Ylimpinä näytetään infotiedot oranssilla korostettuina ja niiden alapuolella muut virheilmoitukset. Jos projektissa on vielä käsittelemättömiä tielinkkejä, ilmoitukset näistä näytetään käyttäjälle aina ensisijaisesti.
+Ensisijaisesti näytetään tiedot projektissa vielä käsittelemättömistä tieosoiteprojektille varatuista linkeistä. Nämä näytetään oranssilla värillä.
+Kun kaikki projektiin varatut linkit on käsitelty jollain toimenpiteellä, näytetään muut Viiteen havaitsemat ongelmat tieverkolla. 
 
 ![Tarkastusilmoitusnäkymä](k49.png)
 
-_Kuva 7.11: Tarkastusilmoitukset näkyvät projektissa oikealla._
+_Kuva 7.9: Tarkastusilmoitukset näkyvät projektissa oikealla._
 
 Tarkastusilmoitus koostuu seuraavista kentistä:
 
 |Kenttä|Kuvaus|
 |------|------|
 |Linkids|Tarkastuksen kohteena oleva yksittäisen tielinkin ID. Vaihtoehtoisesti linkkien lukumäärä, jos tarkastusilmoitus koskee useampaa linkkiä.|
-|Virhe|Kuvaus tarkastuksen havaitsemasta ongelmatilanteesta.|
-|Info|Mahdollisia lisäohjeita tarkastuksen virhetilanteen korjaamiseksi.|
+|Virhe  |Kuvaus tarkastuksen havaitsemasta ongelmatilanteesta.|
+|Info   |Mahdollisia lisäohjeita tarkastuksen virhetilanteen korjaamiseksi.|
 
 ![Tarkastusilmoitus](k50.JPG)
 
-_Kuva 7.12: Tielinkki 7304402 on tieosan viimeinen linkki, mutta siltä puuttuu jatkuvuuskoodi Tien loppu._ 
+_Kuva 7.10: Tielinkki 7304402 näyttää olevan tieosan viimeinen linkki, mutta sen jatkuvuuskoodi on joku muu kuin _Tien loppu_._ 
 
-Karttanäkymä kohdistuu tarkastusilmoituksen kohteena olevan tielinkin keskikohtaan painamalla Korjaa-painiketta. Klikkaamalla painiketta uudestaan kohdistus siirtyy seuraavaan tielinkkiin, jos sama tarkastus kohdistuu useampaan linkkiin. Käyttäjä voi valita tarkastusilmoituksen kohteena olevan tielinkin ja tehdä sille korjaavan toimenpiteen. 
+Painamalla _Korjaa_-painiketta karttanäkymä kohdistuu tarkastusilmoituksen kohteena olevan tielinkin keskikohtaan. Klikkaamalla painiketta uudestaan kohdistus siirtyy seuraavaan tielinkkiin, jos sama tarkastus kohdistuu useampaan linkkiin. Käyttäjä voi valita tarkastusilmoituksen kohteena olevan tielinkin ja tehdä sille korjaavan toimenpiteen. 
 
 #### Tieosoiteprojektissa tehtävät tarkastukset:
 
 Tieosoiteprojektiin kohdistuvat tarkastukset:
 
+- Kaikille projektiin varatuille tielinkeille tulee tehdä jokin toimenpide
 - Uusi tieosa ei saa olla varattuna jossakin toisessa tieosoiteprojektissa
-- Kaikki projektiin varatuille tielinkeille tulee tehdä jokin toimenpide
 - Tieosoitteen kasvusuunta ei saa muuttua kesken tien
-- Tieosoitteellinen tie ei saa haarautua muuten kuin ajoratakoodivaihdoksessa
+- Tieosoitteellinen tie ei saa haarautua muuten kuin ajoratakoodin vaihtuessa
 - Ajoratojen 1 ja 2 tulee kattaa samaa osoitealue
-- Tieosoitteelta ei saa puuttua tieosoiteväliä (katkoa m-arvoissa)
+- Tieosoitteelta ei saa puuttua tieosoiteväliä (katkoa m-arvoissa) <!-- <- !!!TARKISTETTAVA!!! -->
 
 Jatkuvuuden tarkastukset:
 
 - Tieosan sisällä jatkuvissa kohdissa (aukkopaikka alle 0,1 m), jatkuvuuskoodin tulee olla _5 Jatkuva_.
-- Tieosan sisällä jatkuvissa kohdissa rinnakkaisen linkin jatkuvuuskoodin tulee olla _5 Jatkuva (Rinnakkainen linkki)_.
-- Tieosan sisällä epäjatkuvuuskohdissa (aukkopaikka yli 0,1 m) jatkuvuuskoodi tulee olla _4 Lievä epäjatkuvuus_. 
-Tieosan sisäisen epäjatkuvuuden pituudelle ei ole asetettu ylärajaa.
+<!-- POISTUU AWS-version myötä: - Tieosan sisällä jatkuvissa kohdissa rinnakkaisen linkin jatkuvuuskoodin tulee olla _5 Jatkuva (Rinnakkainen linkki)_. -->
+- Tieosan sisällä epäjatkuvuuskohdissa (aukkopaikka yli 0,1 m) jatkuvuuskoodi tulee olla _4 Lievä epäjatkuvuus_. Tieosan sisäisen epäjatkuvuuden pituudelle ei ole asetettu ylärajaa.
 - Tieosan lopussa tulee olla jatkuvuuskoodi _2 Epäjatkuva_ tai _4 Lievä epäjatkuvuus_, jos ennen tien seuraavaa tieosaa on epäjatkuvuuskohta. Seuraavaa tieosaa ei ole välttämättä valittu projektiin, joten tarkastus huomioi myös projektin ulkopuoliset tieosat.
 - Tieosoitteen viimeisellä (suurin tieosanumero) tieosalla tulee olla jatkuvuuskoodi _1 Tien loppu_.
 - Jos tieosoitteen viimeinen tieosa lakkautetaan kokonaan, tien edellisellä tieosalla tulee olla jatkuvuuskoodi _1 Tien loppu_. Tätä tieosaa ei ole välttämättä valittu projektiin ja siksi tarkastus ulottuu myös projektin ulkopuolisiin tieosiin.
 - Jos tieosan seuraava tieosa on eri ELY-koodilla, jatkuvuuskoodin tulee olla tieosan lopussa _3 ELYn raja_.
 
-7.4 Muutosilmoitusten lähettäminen
+7.3 Yhteenvetotaulukko: Muutosilmoitusten tarkastelu taulukkonäkymässä
 --------------------------
+Kun projektilla ei ole enää korjaamattomia tarkastusilmoituksia, kun kaikki projektin aihiot on käsitelty, validointivirheitä ei enää ole, ja etäisyyslukemat on päivitetty onnistuneesti, pääset avaamaan projektin yhteenvetotaulukon.   
+Projektin yhteenvetotaulukossa näet kerralla kaikki projektissa tehdyt toimenpiteet, ja tässä vaiheessa on hyvä tarkistaa, että kaikki tehdyt muutokset näyttävät siltä miltä pitääkin. 
+_Avaa projektin yhteenvetotaulukko_ -painikkeesta (1) avautuu taulukkonäkymä, joka kertoo projektissa olevien tieosoitteiden vanhan ja uuden tilanteen Viiteessä. 
+Taulukossa rivit on järjestetty suurimmasta pienimpään tieosoitteen mukaan (tie, tieosa). Rivien järjestystä voi muokata nuolipainikkeilla (2). 
 
-Muutosilmoitus viedään Tierekisteriin avaamalla ensin yhteenvetotaulukko klikkaamalla oikean alakulman sinistä "Avaa projektin yhteenvetotaulukko" -painiketta. Kun projektilla ei ole enää korjaamattomia tarkastusilmoituksia, aktivoituu vihreä "Lähetä muutosilmoitus Tierekisteriin" -painike. Painikkeen painamisen jälkeen sovellus ilmoittaa muutosilmoituksen lähettämisestä "Muutosilmoitus lähetetty Tierekisteriin" -viestillä.
+Taulukon rivien tietoja voi kopioida maalaamalla halutut tiedot hiirellä ja kopioimalla ne (esim. hiiren oikean napin takaa valikosta, tai ctrl+c). 
 
-![Muutosilmoituksen painike](k38.png)
+Taulukon kokoa saa muutettua taulukon yläkulmassa olevasta _Suurenna_-painikkeesta (3).
+<!-- MITÄHÄN IHMETTÄ TÄLLÄ HAETAAN? :
+Viite-sovelluksen voi venyttää kahdelle näytölle, joista toisella voi tarkastella muutostaulukkoa ja toisella käyttää karttanäkymää.--> 
+Taulukkoa voi liikuttaa tarraamalla osoittimella yläpalkista. Yhteenvetotaulukko ei välttämättä näy oikeanlaisena, jos selaimen zoom-taso on liian suuri. 
+Ongelma korjaantuu palauttamalla selaimen zoom-taso normaaliksi (Firefox/Chrome Ctrl+0). 
 
-_Kuva 7.13: Muutosilmoituksen lähetyspainike oikeassa alakulmassa._
+Taulukon saa pois näkyvistä Sulje-painikkeesta (4).
 
-Kun muutosilmoitus on lähetetty, muuttuu projektin tilatiedoksi *Lähetetty tierekisteriin*. Viite-sovellus tarkistaa minuutin välein Tierekisterin tilanteen. Kun muutos on käsitelty siellä, Viite saa tästä tiedon, ja tilatiedoksi tulee *Viety tierekisteriin*, ja tieosoiteprojekti on nyt valmis. Mikäli muutosilmoitus ei ole mennyt läpi Tierekisterissä, tilaksi päivittyy *Virhe tierekisterissä* ja listalle tulee oranssi "Avaa uudelleen" -painike. Viemällä hiiren *Virhe tierekisterissä* -tekstin päälle virheen infolaatikko tulee näkyviin. Virhe korjataan avaamalla projekti ja tekemällä tarvittavat muokkaukset, jonka jälkeen korjattu ilmoitus täytyy lähettää Tierekisteriin.  
+![Muutosilmoitustaulukko](k41.png)
 
-Tässä koostettuna tieosoiteprojektin tilat
+_Kuva 7.11: Muutosilmoitustaulukko toimintoineen._
+
+7.4 Muutosilmoitusten hyväksyminen tieosoiteverkolle
+----------------------------------------------------
+
+Kun Yhteenvetotaulukossa listattavat toimenpiteet näyttävät oikeilta, voi muutokset hyväksyttää tieverkolle.
+_Hyväksy tieosoitemuutokset_-nappi aktivoituu yhteenvetotaulukon ollessa auki. 
+Painikkeen painamisen jälkeen sovellus ilmoittaa muutosten tieverkolle tallentamisesta "Muutoksia viedään tieosoiteverkolle" -viestillä.
+
+Huom. Aiemmin muutokset vietiin prosessin tässä vaiheessa Viiteestä Tierekisteriin. Tierekisterin poistuttua tieverkon muutostiedot jäävät vain Viiteeseen, josta mut sovellukset niitä tarvitessaan hakevat.
+
+![Tieverkolle hyväksymisen painike](k38.png)
+
+_Kuva 7.13: Muutosten hyväksymispainike oikeassa alakulmassa._
+
+Kun muutokset on lähetetty hyväksyttäväksi tieverkolle, muuttuu projektin tilatiedoksi *Päivitetään tieverkolle*. Viite-sovellus tarkistaa minuutin välein, onko tietojen päivitys tieosoiteverkolle saatu jo vietyä loppuun saakka.
+Kun muutos on käsitelty onnistuneesti, tieosoiteprojektin tilaksi vaihtuu *Hyväksytty*, ja tieosoiteprojekti on nyt valmis. 
+Mikäli muutosten tieverkolle viemisessä havaittiin vielä jokin ongelma, tilaksi päivittyy *Virhe Viite-sovelluksessa* ja listalle tulee oranssi "Avaa uudelleen" -painike. Viemällä hiiren *Virhe Viite-sovelluksessa* -tekstin päälle virheen infolaatikko tulee näkyviin. 
+Virhe korjataan avaamalla projekti, ja tekemällä tarvittavat muokkaukset, minkä jälkeen korjatut muutokset täytyy uudelleen hyväksyttää tieverkolle.  
+
+Tässä koostettuna tieosoiteprojektin tilat:
 
 |Tieosoiteprojektin tila|Selite|
 |------|------|
-|Keskeneräinen|Projekti on työn alla ja sitä ei ole vielä lähetetty Tierekisteriin.|
-|Lähetetty tierekisteriin|Projekti on lähetetty Tierekisteriin.|
-|Tierekisterissä käsittelyssä|Projekti on Tierekisterissä käsittelyssä. Tierekisteri käsittelee projektin sisältämiä muutosilmoituksia.|
-|Viety tierekisteriin|Projekti on hyväksytty Tierekisterissä. Muutokset näkyvät myös Viite-sovelluksessa.|
-|Virhe tierekisterissä|Tierekisteri ei hyväksynyt projektia. Tierekisterin tarkempi virheilmoitus tulee näkyviin viemällä osoittimen "Virhe tierekisterissä"-tekstin päälle. Projektin voi avata uudelleen.|
-|Virhetilanne Viitteessä|Projekti on lähetty Tierekisteriin ja se on Tierekisterin hyväksymä, mutta projektin tiedot eivät piirry Viite-sovelluksessa.| 
+|Keskeneräinen|Projekti on työn alla ja sitä ei ole vielä hyväksytty tieverkolle.|
+|Odottaa tieverkolle päivittämistä|Viiteen tieverkolle hyväksymisen prosessi ei ole vielä ottanut tieosoiteprojektia käsittelyyn.|
+|Päivitetään tieverkolle|Projekti on Viiteen käsittelyssä. Viite vie projektin sisältämiä muutosilmoituksia tieverkolle.|
+|Hyväksytty|Projekti on hyväksytty Viiteessä. Muutokset näkyvät myös Viite-sovelluksessa.|
+|Virhe Viite-sovelluksessa |Viite ei hyväksynyt projektia. Tarkempi virheilmoitus tulee näkyviin viemällä osoittimen "Virhe Viite-sovelluksessa"-tekstin päälle. Projektin voi avata uudelleen.|
+|Poistettu projekti|Projekti on poistettu ennen tieverkolle hyväksymistä.| 
 
 # 8. Tienimien ylläpito
 --------------------------
